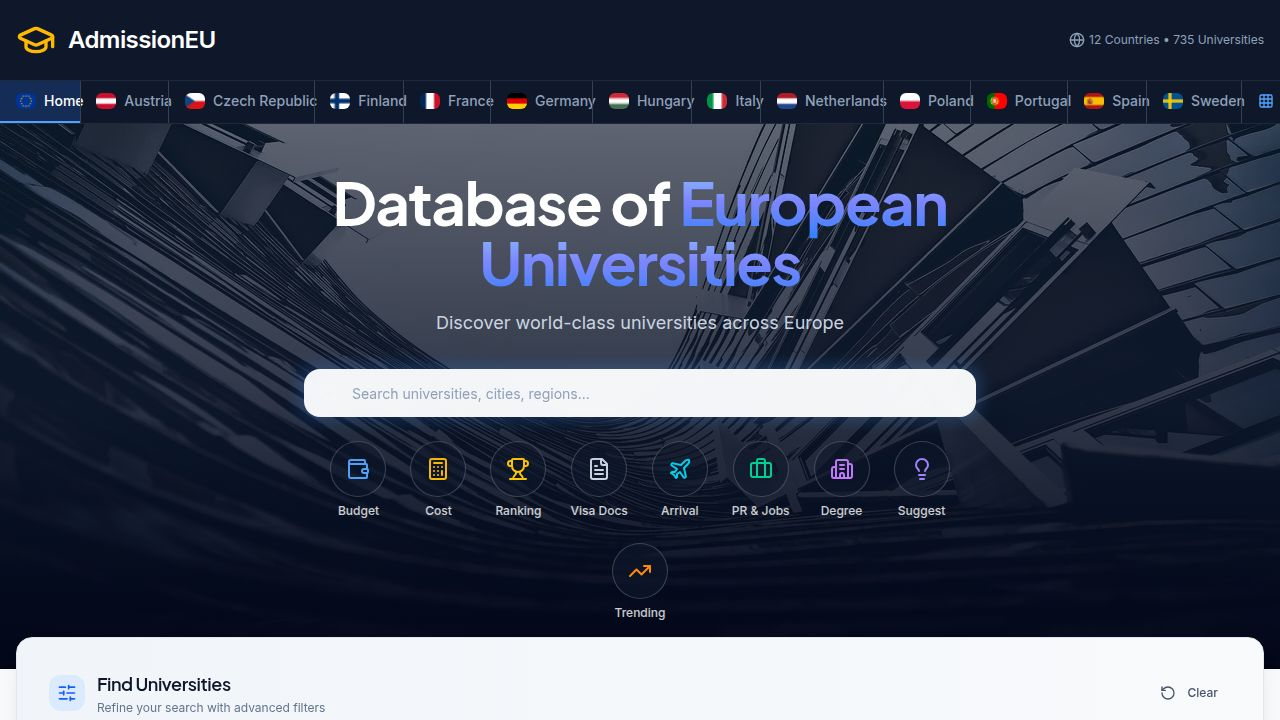
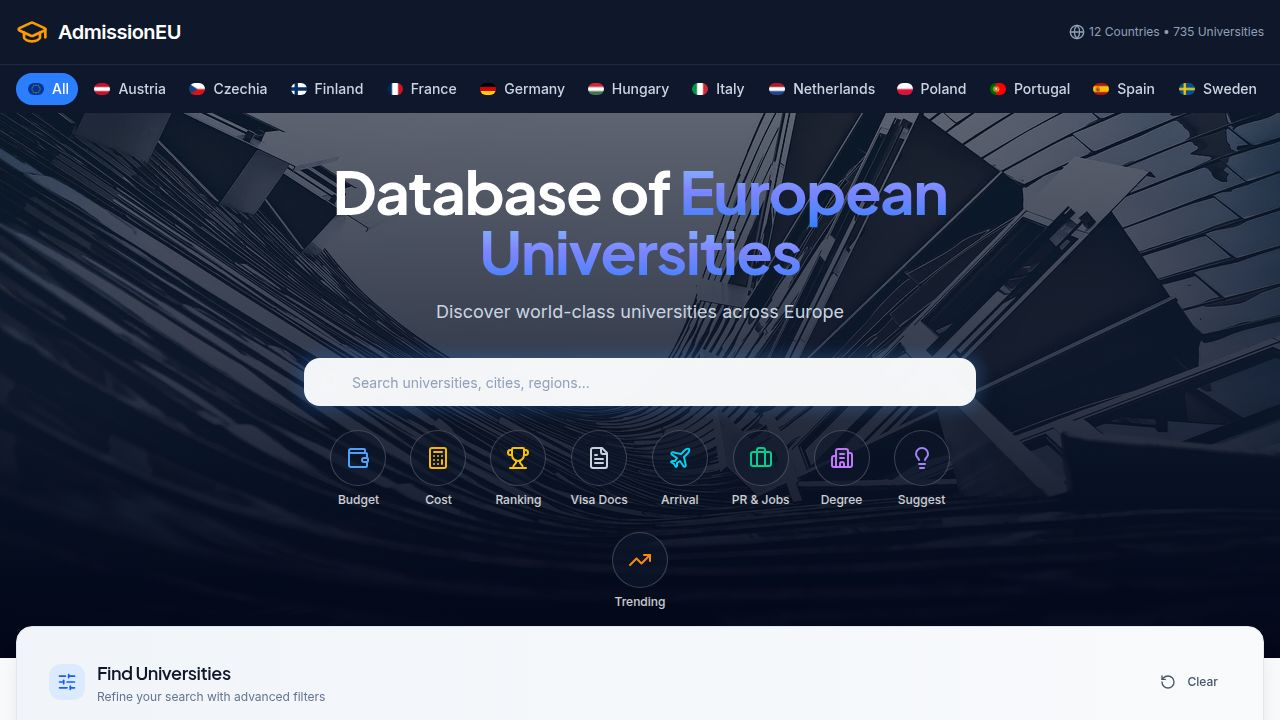
Update navigation menu for a more attractive and uniform look
Refactors the Header component to implement a cleaner, more uniform navigation menu with a left-aligned approach, including a mobile-responsive hamburger menu.

Replit-Commit-Author: Agent
Replit-Commit-Session-Id: 1f81fc74-d928-40b8-b849-dec4d1b00912
Replit-Commit-Checkpoint-Type: full_checkpoint
Replit-Commit-Event-Id: bb318e30-a075-4d2e-91bb-6f160ff991bb
Replit-Commit-Screenshot-Url: https://storage.googleapis.com/screenshot-production-us-central1/ca9c957e-b649-4eb1-81fc-d7ef84337c8d/1f81fc74-d928-40b8-b849-dec4d1b00912/1NYCxRf

diff --git a/client/src/components/Header.tsx b/client/src/components/Header.tsx
@@ -1,32 +1,29 @@
 import { useLocation, useSearch } from 'wouter';
 import { useQuery } from '@tanstack/react-query';
-import { GraduationCap, Globe, ChevronRight, Grid3X3, X } from 'lucide-react';
+import { GraduationCap, Globe, Menu, X } from 'lucide-react';
 import { fetchUniversities } from '@/lib/api';
-import { useRef, useState, useEffect } from 'react';
+import { useState } from 'react';
 
 const countries = [
-  { name: 'Austria', flag: '🇦🇹', code: 'AT' },
-  { name: 'Czech Republic', flag: '🇨🇿', code: 'CZ' },
-  { name: 'Finland', flag: '🇫🇮', code: 'FI' },
-  { name: 'France', flag: '🇫🇷', code: 'FR' },
-  { name: 'Germany', flag: '🇩🇪', code: 'DE' },
-  { name: 'Hungary', flag: '🇭🇺', code: 'HU' },
-  { name: 'Italy', flag: '🇮🇹', code: 'IT' },
-  { name: 'Netherlands', flag: '🇳🇱', code: 'NL' },
-  { name: 'Poland', flag: '🇵🇱', code: 'PL' },
-  { name: 'Portugal', flag: '🇵🇹', code: 'PT' },
-  { name: 'Spain', flag: '🇪🇸', code: 'ES' },
-  { name: 'Sweden', flag: '🇸🇪', code: 'SE' },
+  { name: 'Austria', code: 'AT' },
+  { name: 'Czech Republic', code: 'CZ' },
+  { name: 'Finland', code: 'FI' },
+  { name: 'France', code: 'FR' },
+  { name: 'Germany', code: 'DE' },
+  { name: 'Hungary', code: 'HU' },
+  { name: 'Italy', code: 'IT' },
+  { name: 'Netherlands', code: 'NL' },
+  { name: 'Poland', code: 'PL' },
+  { name: 'Portugal', code: 'PT' },
+  { name: 'Spain', code: 'ES' },
+  { name: 'Sweden', code: 'SE' },
 ];
 
 export function Header() {
   const [location, setLocation] = useLocation();
   const searchParams = useSearch();
   const urlCountry = new URLSearchParams(searchParams).get('country');
-  const scrollRef = useRef<HTMLDivElement>(null);
-  const [showRightIndicator, setShowRightIndicator] = useState(true);
-  const [showLeftIndicator, setShowLeftIndicator] = useState(false);
-  const [showCountryModal, setShowCountryModal] = useState(false);
+  const [mobileMenuOpen, setMobileMenuOpen] = useState(false);
   
   const { data: universities = [] } = useQuery({
     queryKey: ['universities'],
@@ -36,171 +33,135 @@ export function Header() {
   const handleNavClick = (e: React.MouseEvent<HTMLAnchorElement>, path: string) => {
     e.preventDefault();
     setLocation(path);
-    setShowCountryModal(false);
+    setMobileMenuOpen(false);
   };
-  
-  const checkScroll = () => {
-    if (scrollRef.current) {
-      const { scrollLeft, scrollWidth, clientWidth } = scrollRef.current;
-      setShowLeftIndicator(scrollLeft > 10);
-      setShowRightIndicator(scrollLeft < scrollWidth - clientWidth - 10);
-    }
-  };
-  
-  useEffect(() => {
-    checkScroll();
-    const el = scrollRef.current;
-    if (el) {
-      el.addEventListener('scroll', checkScroll);
-      window.addEventListener('resize', checkScroll);
-      return () => {
-        el.removeEventListener('scroll', checkScroll);
-        window.removeEventListener('resize', checkScroll);
-      };
-    }
-  }, []);
   
   const isHome = location === '/' && !urlCountry;
-  
+
   return (
-    <header className="bg-slate-900 border-b border-slate-800 sticky top-0 z-50">
-      <div className="max-w-7xl mx-auto">
-        {/* Top bar with logo */}
-        <div className="flex items-center justify-between px-4 py-5">
+    <header className="bg-slate-900 sticky top-0 z-50">
+      <div className="max-w-7xl mx-auto px-4">
+        <div className="flex items-center justify-between h-16">
           <a 
             href="/" 
             onClick={(e) => handleNavClick(e, '/')}
-            className="flex items-center gap-3 text-white hover:text-blue-400 transition-colors no-underline"
+            className="flex items-center gap-2.5 text-white hover:text-blue-400 transition-colors no-underline"
           >
-            <GraduationCap className="w-10 h-10 text-amber-400" />
-            <span className="font-bold text-2xl tracking-tight">AdmissionEU</span>
+            <GraduationCap className="w-8 h-8 text-amber-500" />
+            <span className="font-bold text-xl tracking-tight">AdmissionEU</span>
           </a>
           
-          <div className="flex items-center gap-1 text-xs text-slate-400">
+          <div className="hidden md:flex items-center gap-1 text-xs text-slate-400">
             <Globe className="w-4 h-4" />
             <span>12 Countries • {universities.length} Universities</span>
           </div>
-        </div>
-        
-        {/* Country navigation bar */}
-        <nav className="border-t border-slate-800 relative">
-          {/* Left fade indicator */}
-          {showLeftIndicator && (
-            <div className="absolute left-0 top-0 bottom-0 w-8 bg-gradient-to-r from-slate-900 to-transparent z-10 pointer-events-none md:hidden" />
-          )}
-          
-          {/* Right fade indicator with arrow */}
-          {showRightIndicator && (
-            <div className="absolute right-0 top-0 bottom-0 w-12 bg-gradient-to-l from-slate-900 via-slate-900/80 to-transparent z-10 pointer-events-none md:hidden flex items-center justify-end pr-1">
-              <ChevronRight className="w-5 h-5 text-blue-400 animate-pulse" />
-            </div>
-          )}
-          
-          <div 
-            ref={scrollRef}
-            className="flex items-center overflow-x-auto scrollbar-hide scroll-smooth"
-            style={{ WebkitOverflowScrolling: 'touch' }}
+
+          <button
+            onClick={() => setMobileMenuOpen(!mobileMenuOpen)}
+            className="md:hidden p-2 text-slate-400 hover:text-white hover:bg-slate-800 rounded-lg transition-colors"
+            data-testid="button-mobile-menu"
           >
+            {mobileMenuOpen ? <X className="w-6 h-6" /> : <Menu className="w-6 h-6" />}
+          </button>
+        </div>
+      </div>
+
+      <nav className="border-t border-slate-800 bg-slate-900/95 backdrop-blur-sm">
+        <div className="max-w-7xl mx-auto px-4">
+          <div className="hidden md:flex items-center gap-1 py-2 overflow-x-auto">
             <a 
               href="/"
               onClick={(e) => handleNavClick(e, '/')}
-              className={`flex items-center gap-2 px-4 py-2.5 text-sm font-medium whitespace-nowrap transition-all duration-200 no-underline border-b-2 ${
+              className={`flex items-center gap-2 px-3 py-1.5 text-sm font-medium rounded-full transition-all duration-200 no-underline ${
                 isHome 
-                  ? 'text-white border-blue-400 bg-blue-500/20' 
-                  : 'text-slate-400 border-transparent hover:text-blue-300 hover:bg-blue-500/10 hover:border-blue-400/50'
+                  ? 'bg-blue-500 text-white' 
+                  : 'text-slate-300 hover:bg-slate-800 hover:text-white'
               }`}
               data-testid="nav-home"
             >
-              <img src="https://flagcdn.com/w20/eu.png" alt="EU" className="w-5 h-4 object-cover rounded-sm" />
-              <span>Home</span>
+              <img src="https://flagcdn.com/w20/eu.png" alt="EU" className="w-4 h-3 object-cover rounded-sm" loading="lazy" />
+              <span>All</span>
             </a>
             
             {countries.map(({ name, code }) => (
-              <div key={name} className="flex items-center self-stretch">
-                <div className="w-px bg-slate-700 self-stretch"></div>
-                <a 
-                  href={`/?country=${name}`}
-                  onClick={(e) => handleNavClick(e, `/?country=${name}`)}
-                  className={`flex items-center gap-2 px-4 py-2.5 text-sm font-medium whitespace-nowrap transition-all duration-200 no-underline border-b-2 ${
-                    urlCountry === name 
-                      ? 'text-white border-blue-400 bg-blue-500/20' 
-                      : 'text-slate-400 border-transparent hover:text-blue-300 hover:bg-blue-500/10 hover:border-blue-400/50'
-                  }`}
-                  data-testid={`nav-${name.toLowerCase()}`}
-                >
-                  <img src={`https://flagcdn.com/w20/${code.toLowerCase()}.png`} alt={name} className="w-5 h-4 object-cover rounded-sm" />
-                  <span>{name}</span>
-                </a>
-              </div>
+              <a 
+                key={name}
+                href={`/?country=${name}`}
+                onClick={(e) => handleNavClick(e, `/?country=${name}`)}
+                className={`flex items-center gap-2 px-3 py-1.5 text-sm font-medium rounded-full transition-all duration-200 no-underline ${
+                  urlCountry === name 
+                    ? 'bg-blue-500 text-white' 
+                    : 'text-slate-300 hover:bg-slate-800 hover:text-white'
+                }`}
+                data-testid={`nav-${name.toLowerCase().replace(' ', '-')}`}
+              >
+                <img 
+                  src={`https://flagcdn.com/w20/${code.toLowerCase()}.png`} 
+                  alt={name} 
+                  className="w-4 h-3 object-cover rounded-sm" 
+                  loading="lazy"
+                />
+                <span>{name === 'Czech Republic' ? 'Czechia' : name}</span>
+              </a>
             ))}
-            
-            <div className="flex items-center self-stretch">
-              <div className="w-px bg-slate-700 self-stretch"></div>
-              <button
-                onClick={() => setShowCountryModal(true)}
-                className="flex items-center gap-2 px-4 py-2.5 text-sm font-medium whitespace-nowrap transition-all duration-200 border-b-2 border-transparent text-blue-400 hover:text-blue-300 hover:bg-blue-500/10 hover:border-blue-400/50"
-                data-testid="button-all-countries"
-              >
-                <Grid3X3 className="w-4 h-4" />
-                <span>All</span>
-              </button>
-            </div>
           </div>
-        </nav>
-      </div>
-      
-      {showCountryModal && (
-        <div className="fixed inset-0 z-[100] flex items-end sm:items-center justify-center">
-          <div 
-            className="absolute inset-0 bg-black/60 backdrop-blur-sm"
-            onClick={() => setShowCountryModal(false)}
-          />
-          <div className="relative bg-slate-900 border border-slate-700 rounded-t-2xl sm:rounded-2xl w-full sm:max-w-lg max-h-[80vh] overflow-hidden animate-in slide-in-from-bottom sm:slide-in-from-bottom-0 sm:zoom-in-95 duration-200">
-            <div className="flex items-center justify-between p-4 border-b border-slate-700">
-              <h2 className="text-lg font-semibold text-white">Browse Countries</h2>
-              <button
-                onClick={() => setShowCountryModal(false)}
-                className="p-2 text-slate-400 hover:text-white hover:bg-slate-800 rounded-lg transition-colors"
-                data-testid="button-close-modal"
-              >
-                <X className="w-5 h-5" />
-              </button>
+        </div>
+      </nav>
+
+      {mobileMenuOpen && (
+        <div className="md:hidden fixed inset-0 top-16 z-50 bg-slate-900/98 backdrop-blur-md overflow-y-auto">
+          <div className="p-4">
+            <div className="flex items-center justify-between mb-4">
+              <p className="text-xs text-slate-400 flex items-center gap-1">
+                <Globe className="w-3.5 h-3.5" />
+                12 Countries • {universities.length} Universities
+              </p>
             </div>
-            <div className="p-4 overflow-y-auto max-h-[60vh]">
-              <div className="grid grid-cols-2 gap-3">
-                <a
-                  href="/"
-                  onClick={(e) => handleNavClick(e, '/')}
-                  className={`flex items-center gap-3 p-3 rounded-xl transition-all duration-200 no-underline ${
-                    isHome
-                      ? 'bg-blue-500/20 border-2 border-blue-400'
-                      : 'bg-slate-800 border-2 border-transparent hover:border-blue-400/50 hover:bg-slate-700'
-                  }`}
-                  data-testid="modal-nav-home"
-                >
-                  <img src="https://flagcdn.com/w40/eu.png" alt="EU" className="w-10 h-7 object-cover rounded" />
-                  <div>
-                    <span className="font-medium text-white block">Home</span>
-                    <span className="text-xs text-slate-400">All countries</span>
-                  </div>
-                </a>
-                {countries.map(({ name, code }) => (
+            
+            <div className="grid grid-cols-2 gap-2">
+              <a
+                href="/"
+                onClick={(e) => handleNavClick(e, '/')}
+                className={`flex items-center gap-3 p-3 rounded-xl transition-all duration-200 no-underline ${
+                  isHome
+                    ? 'bg-blue-500 text-white'
+                    : 'bg-slate-800 text-slate-300 hover:bg-slate-700'
+                }`}
+                data-testid="mobile-nav-home"
+              >
+                <img src="https://flagcdn.com/w40/eu.png" alt="EU" className="w-8 h-6 object-cover rounded" />
+                <div>
+                  <span className="font-medium block text-sm">All Countries</span>
+                  <span className="text-xs opacity-70">{universities.length} unis</span>
+                </div>
+              </a>
+              
+              {countries.map(({ name, code }) => {
+                const countryUnis = universities.filter(u => u.country === name).length;
+                return (
                   <a
                     key={name}
                     href={`/?country=${name}`}
                     onClick={(e) => handleNavClick(e, `/?country=${name}`)}
                     className={`flex items-center gap-3 p-3 rounded-xl transition-all duration-200 no-underline ${
                       urlCountry === name
-                        ? 'bg-blue-500/20 border-2 border-blue-400'
-                        : 'bg-slate-800 border-2 border-transparent hover:border-blue-400/50 hover:bg-slate-700'
+                        ? 'bg-blue-500 text-white'
+                        : 'bg-slate-800 text-slate-300 hover:bg-slate-700'
                     }`}
-                    data-testid={`modal-nav-${name.toLowerCase()}`}
+                    data-testid={`mobile-nav-${name.toLowerCase().replace(' ', '-')}`}
                   >
-                    <img src={`https://flagcdn.com/w40/${code.toLowerCase()}.png`} alt={name} className="w-10 h-7 object-cover rounded" />
-                    <span className="font-medium text-white text-sm">{name}</span>
+                    <img 
+                      src={`https://flagcdn.com/w40/${code.toLowerCase()}.png`} 
+                      alt={name} 
+                      className="w-8 h-6 object-cover rounded" 
+                    />
+                    <div>
+                      <span className="font-medium block text-sm">{name === 'Czech Republic' ? 'Czechia' : name}</span>
+                      <span className="text-xs opacity-70">{countryUnis} unis</span>
+                    </div>
                   </a>
-                ))}
-              </div>
+                );
+              })}
             </div>
           </div>
         </div>
